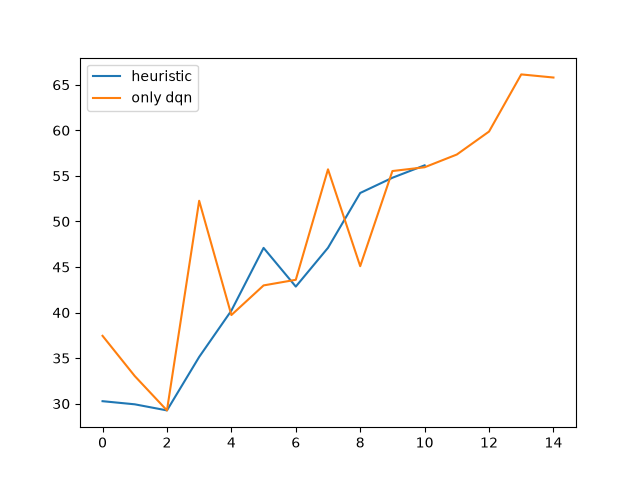
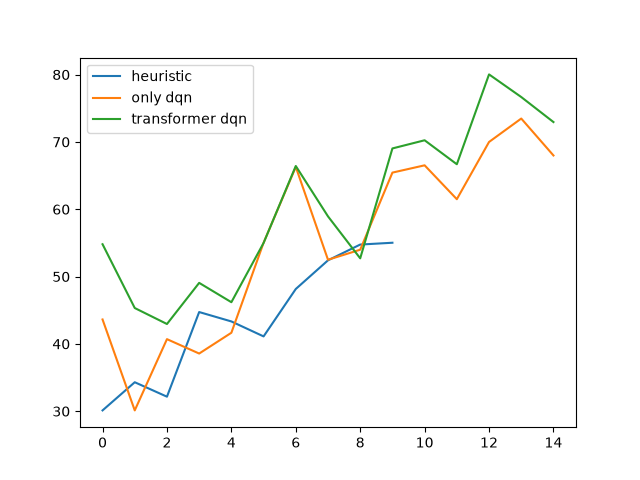
the transformer dqn works

diff --git a/transformerDQN/transformer.py b/transformerDQN/transformer.py
@@ -71,16 +71,19 @@ class Encoder(nn.Module):
 
     ''' model dim is 5, determined by this function output dimention'''
     def two_nodes_info(self, distance, node1, node2):
-        dis = self.mdp.distance_matrix[node1][node2]
+        dis = torch.tensor([distance], device=self.device, dtype=torch.float32)
 
-        node1_ave_dis = self.mdp.distance_matrix_ave[node1]
-        node2_ave_dis = self.mdp.distance_matrix_ave[node2]
+        node1_ave_dis = torch.tensor([self.mdp.distance_matrix_ave[node1]], 
+                                     device=self.device, dtype=torch.float32)
+        node2_ave_dis = torch.tensor([self.mdp.distance_matrix_ave[node2]], 
+                                     device=self.device, dtype=torch.float32)
 
-        node1_ave_std = self.mdp.distance_matrix_std[node1]
-        node2_ave_std = self.mdp.distance_matrix_std[node2]
+        node1_cap = torch.tensor([self.mdp.node_demand[node1]], 
+                                 device=self.device, dtype=torch.float32)
+        node2_cap = torch.tensor([self.mdp.node_demand[node2]], 
+                                 device=self.device, dtype=torch.float32)
 
-        return torch.cat([node1_ave_dis, node1_ave_std, node2_ave_std, node2_ave_dis, distance]
-                  , device=self.device, dtype=torch.float)
+        return torch.cat([node1_ave_dis, node1_cap, node2_ave_dis, node2_cap, dis])
 
     def input_create(self):
         pair_info = []
@@ -88,7 +91,7 @@ class Encoder(nn.Module):
             for j in range(i+1, self.mdp.num_nodes):
                 pair_info.append(self.two_nodes_info(self.mdp.distance_matrix[i][j], i, j))
 
-        return torch.stack(pair_info, device=self.device, dtype=torch.float)
+        return torch.stack(pair_info)
 
     def forward(self, mdp):
         self.mdp = mdp

diff --git a/main.py b/main.py
@@ -27,7 +27,7 @@ epsilon=0.3
 batch_size=20
 RB_capacity=500
 num_first_samples=32
-num_epoches=100
+num_epoches=10
 max_num_nodes=10
 min_num_nodes=5
 depot_num=0
@@ -66,10 +66,10 @@ only_dqn = OnlyDQN(
 
 transformer_dqn = TransformerDQN(
         num_layers=3,
-        num_heads=2,
-        model_dim=6,
+        num_heads=1,
+        model_dim=5,
         FF_hidden_dim=8,
-        input_dim=15,
+        input_dim=20,
         output_dim=output_dim,
         hidden_dim=hidden_dim,
         lr=lr,
@@ -98,6 +98,7 @@ transformer_dqn.DQN_train()
 
 heuristic_trials = []
 only_dqn_trials = []
+transformer_dqn_trials = []
 
 for n_nodes in range(5, 10):
     for n_cars in range(1, 4):
@@ -118,8 +119,15 @@ for n_nodes in range(5, 10):
             only_dqn_trials.append(dqn_total_dis)
             print(dqn_routes)
 
+        trans_dqn_total_dis, trans_dqn_routes = transformer_dqn.evaluate(test_mdp)
+        if len(only_dqn.used) == test_mdp.num_nodes:
+            transformer_dqn_trials.append(trans_dqn_total_dis)
+            print(trans_dqn_routes)
+        
+
 plt.plot(heuristic_trials, label="heuristic")
 plt.plot(only_dqn_trials, label="only dqn")
+plt.plot(transformer_dqn_trials, label="transformer dqn")
 plt.legend()
 plt.savefig("node.png")
 

diff --git a/transformerDQN/transformer_DQN.py b/transformerDQN/transformer_DQN.py
@@ -35,15 +35,22 @@ class TransformerDQN(DQN):
         if self.node_embedding == None:
             print("error it must not self.node_embedding mudt bot be none")
         else:
-            sum_unused_nodes = [sum(self.node_embedding[i]) for i in range(mdp.num_nodes) if i not in used ] 
-            return(sum_unused_nodes / len(self.node_embedding))
+            unused_embeddings = [self.node_embedding[i] for i in range(mdp.num_nodes) if i not in used]
+            if not unused_embeddings:
+                sum_unused_nodes = torch.zeros_like(self.node_embedding[0])
+            else:
+                sum_unused_nodes = torch.stack(unused_embeddings).mean(dim=0)
+
+            return sum_unused_nodes
     
     def get_next_node_statics(self, mdp, route, next_node):
         if self.node_embedding == None:
             print("error it must not self.node_embedding mudt bot be none")
         else:
             dis = mdp.distance_matrix[route["current_node"]][next_node]
-            return(self.node_embedding[next_node], dis)
+            dis = torch.tensor([dis], device=self.device, dtype=torch.float)
+            
+            return torch.cat([self.node_embedding[next_node], dis])
     
 
 
